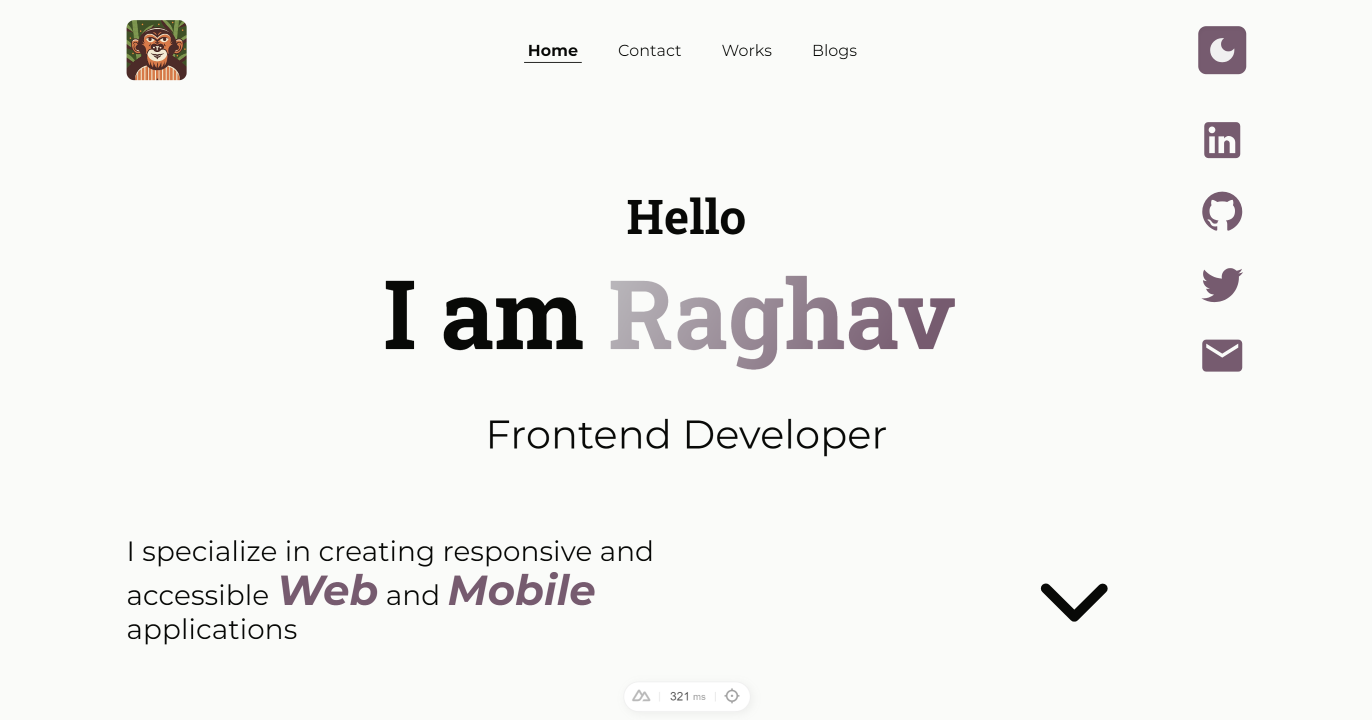
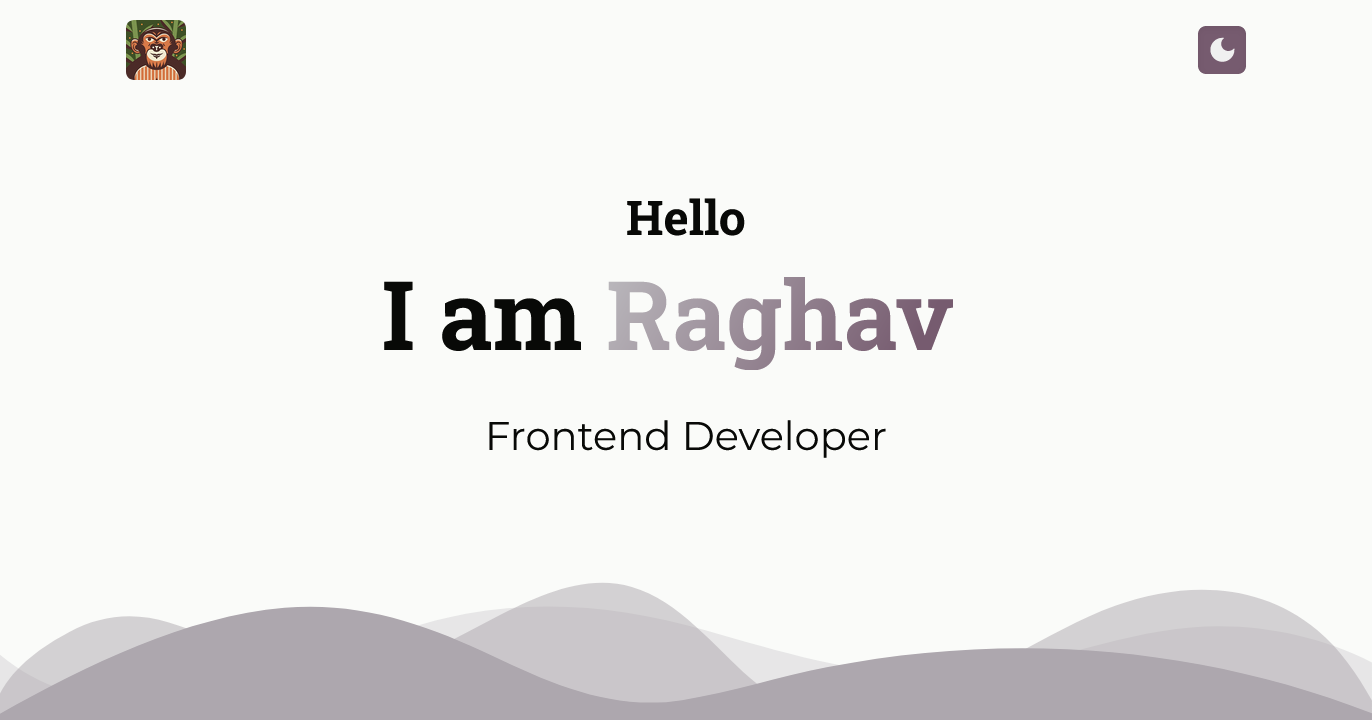
HMM?

diff --git a/components/Page/Home/Hero.vue b/components/Page/Home/Hero.vue
@@ -1,42 +1,64 @@
 <template>
-    <PageSectionContainer class="home-hero" aria-label="hero">
-        <h1 class="[ home-hero-title ]">
-            <span class="small">Hello</span>
-            <br>
-            I am&nbsp;<span class="home-hero-title-name">
-                <span class="home-hero-name"><span class="home-name-effect">Raghav</span></span>
-                <span class="home-hero-alias"><span class="home-name-effect">Bene</span></span>
-            </span>
-        </h1>
-        <p class="home-hero-dev">Frontend Developer</p>
-
-        <div class="home-hero-content">
-            <div class="home-hero-subtitle flow">
-                <p class="home-hero-skills">I specialize in creating responsive and accessible <span
-                        class="[ italic bold accent large ]">Web</span> and <span class="[ italic bold accent large ]">Mobile</span>
-                    applications</p>
-            </div>
-            <ul class="home-hero-socials" >
-                <li class="home-hero-social" style="--_index-val:0">
-                    <SocialsLinkedIn class="hero-social-link"/>
-                </li>
-                <li class="home-hero-social" style="--_index-val:1">
-                    <SocialsGithub  class="hero-social-link" />
-                </li>
-                <li class="home-hero-social" style="--_index-val:2">
-                    <SocialsTwitter  class="hero-social-link" />
-                </li>
-                <li class="home-hero-social" style="--_index-val:3">
-                    <SocialsMail  class="hero-social-link" />
-                </li>
-            </ul>
-            <a href="#about" class="home-hero-down">
-                <span class="sr-only">Skip to content!</span>
-                <Icon name="mingcute:down-line" />
-            </a>
+    <section class="home-hero" aria-label="hero">
+        <div class="home-shape-bottom" :style="y > 10 ?`opacity:${Math.max(0,1 - y/400)} !important;`:''">
+            <svg data-name="Layer 1" xmlns="http://www.w3.org/2000/svg" viewBox="0 0 1200 120" preserveAspectRatio="none">
+                <path
+                    d="M0,0V46.29c47.79,22.2,103.59,32.17,158,28,70.36-5.37,136.33-33.31,206.8-37.5C438.64,32.43,512.34,53.67,583,72.05c69.27,18,138.3,24.88,209.4,13.08,36.15-6,69.85-17.84,104.45-29.34C989.49,25,1113-14.29,1200,52.47V0Z"
+                    opacity=".25" class="shape-fill"></path>
+                <path
+                    d="M0,0V15.81C13,36.92,27.64,56.86,47.69,72.05,99.41,111.27,165,111,224.58,91.58c31.15-10.15,60.09-26.07,89.67-39.8,40.92-19,84.73-46,130.83-49.67,36.26-2.85,70.9,9.42,98.6,31.56,31.77,25.39,62.32,62,103.63,73,40.44,10.79,81.35-6.69,119.13-24.28s75.16-39,116.92-43.05c59.73-5.85,113.28,22.88,168.9,38.84,30.2,8.66,59,6.17,87.09-7.5,22.43-10.89,48-26.93,60.65-49.24V0Z"
+                    opacity=".5" class="shape-fill"></path>
+                <path
+                    d="M0,0V5.63C149.93,59,314.09,71.32,475.83,42.57c43-7.64,84.23-20.12,127.61-26.46,59-8.63,112.48,12.24,165.56,35.4C827.93,77.22,886,95.24,951.2,90c86.53-7,172.46-45.71,248.8-84.81V0Z"
+                    class="shape-fill"></path>
+            </svg>
         </div>
-    </PageSectionContainer>
+        <div class="container">
+            <div class="wrapper">
+
+                <h1 class="[ home-hero-title ]">
+                    <span class="small">Hello</span>
+                    <br>
+                    I am&nbsp;<span class="home-hero-title-name">
+                        <span class="home-hero-name"><span class="home-name-effect">Raghav</span></span>
+                        <span class="home-hero-alias"><span class="home-name-effect">Bene</span></span>
+                    </span>
+                </h1>
+                <p class="home-hero-dev">Frontend Developer</p>
+                <div class="home-hero-content">
+                    <!-- <div class="home-hero-subtitle flow">
+                        <p class="home-hero-skills">I specialize in creating responsive and accessible <span
+                                class="[ italic bold accent large ]">Web</span> and <span class="[ italic bold accent large ]">Mobile</span>
+                            applications</p>
+                    </div> -->
+                    <ul class="home-hero-socials">
+                        <li class="home-hero-social" style="--_index-val:0">
+                            <SocialsLinkedIn class="hero-social-link" />
+                        </li>
+                        <li class="home-hero-social" style="--_index-val:1">
+                            <SocialsGithub class="hero-social-link" />
+                        </li>
+                        <li class="home-hero-social" style="--_index-val:2">
+                            <SocialsTwitter class="hero-social-link" />
+                        </li>
+                        <li class="home-hero-social" style="--_index-val:3">
+                            <SocialsMail class="hero-social-link" />
+                        </li>
+                    </ul>
+                    <a href="#about" class="home-hero-down">
+                        <span class="sr-only">Skip to content!</span>
+                        <Icon name="mingcute:down-line" />
+                    </a>
+                </div>
+            </div>
+        </div>
+    </section>
 </template>
+
 <script setup>
 
+import { useWindowScroll } from '@vueuse/core';
+let { y } = useWindowScroll()
 </script>
+
+

diff --git a/assets/sass/home.scss b/assets/sass/home.scss
@@ -12,6 +12,69 @@ $screenSize: (
 
 /***** Hero *****/
 .home-hero {
+    position: relative;
+}
+
+.home-shape-bottom {
+    position: absolute;
+    bottom: 0;
+    left: 0;
+    width: 100%;
+    overflow: hidden;
+    line-height: 0;
+    transform: rotate(180deg);
+
+    -webkit-animation:from-below 500ms ease forwards;
+
+            animation:from-below 500ms ease forwards;
+}
+
+@-webkit-keyframes from-below {
+    0%{
+        opacity: 0;
+        translate: 0 50%;
+    }
+    100%{
+        opacity: 1;
+        translate: 0 0;
+    }
+}
+
+@keyframes from-below {
+    0%{
+        opacity: 0;
+        translate: 0 50%;
+    }
+    100%{
+        opacity: 1;
+        translate: 0 0;
+    }
+}
+.home-shape-bottom svg {
+    position: relative;
+    display: block;
+    width: calc(200% + 1.3px);
+    height: 200px;
+    scale: 4 1;
+
+    @include mq(sm){
+        height: 150px;
+        scale: 3 1;
+    }
+    @include mq(){
+        height: 125px;
+        scale: 2 1;
+    }
+    @include mq(lg){
+        height: 100px;
+        scale:1 1;
+    }
+}
+
+.home-shape-bottom .shape-fill {
+    fill: hsl(var(--primary));
+}
+.home-hero {
     .wrapper {
         padding-block: 0;
         padding-top: var(--size-10);
@@ -29,7 +92,7 @@ $screenSize: (
     }
 
     &-title {
-        font-size: clamp(var(--size-7), 10vw, var(--size-9));
+        font-size: clamp(var(--size-7), 10vw, var(--size-15));
 
         &-name {
             position: relative;
@@ -152,11 +215,11 @@ $screenSize: (
         font-size: var(--size-16);
         margin-inline: auto;
 
+        
+
         @include mq() {
             font-size: var(--size-30);
-            margin-inline: 0;
-            margin-left: auto;
-            margin-right: 10%;
+
         }
     }
 }
